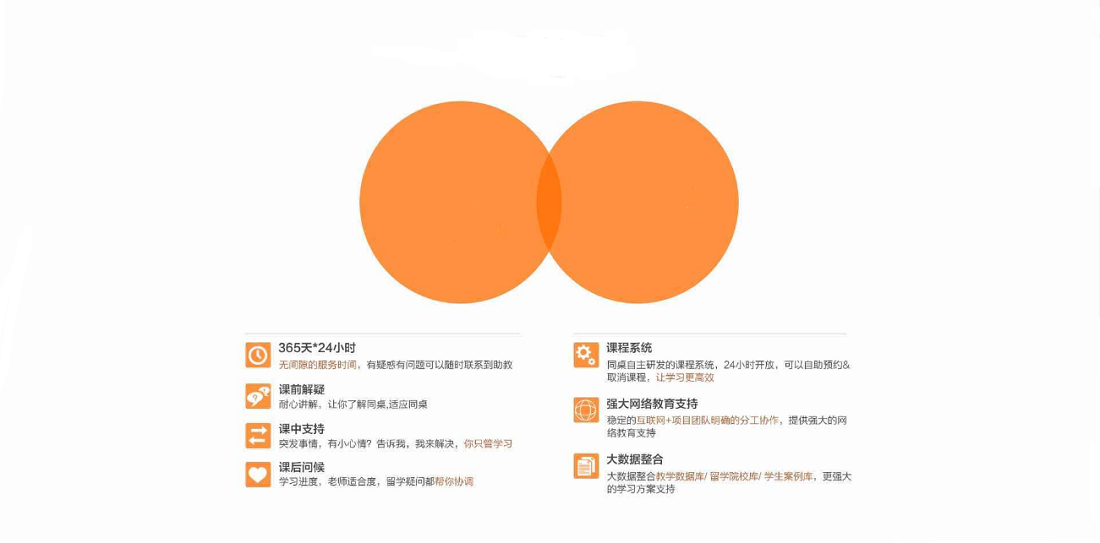
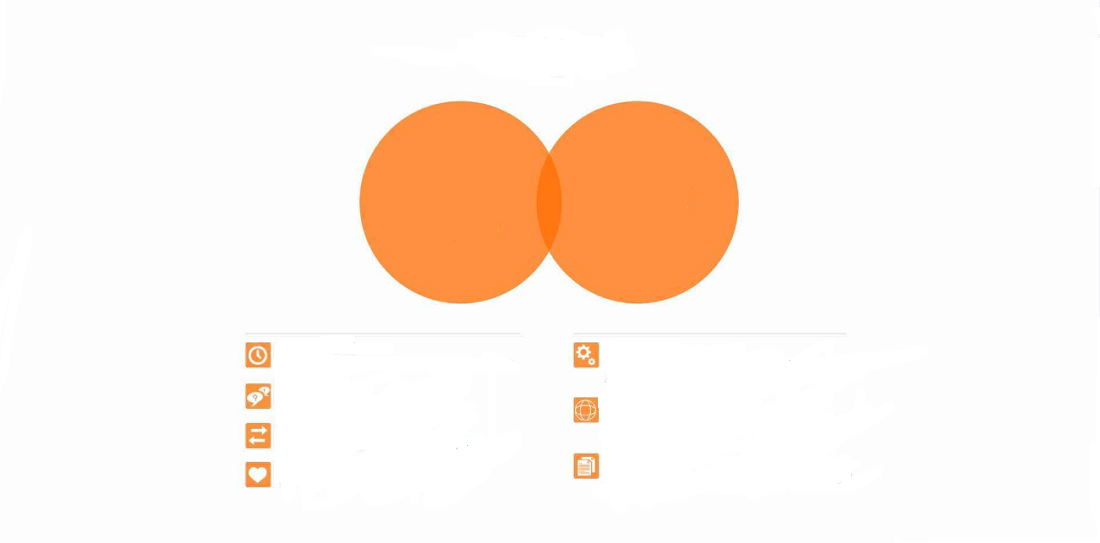
add

diff --git a/o/首页.html b/o/首页.html
@@ -86,15 +86,6 @@
     </div>
 
 
-
-    <!-- <div class="this-tre-paadr">
-        <div class="class-value-has">
-                课程有价值
-            <div class="border-lin-bot"></div>
-        </div>
-    </div> -->
-
-
     <div class="this-tre-paadr">
         <div class="class-value-has">
                 课程有价值
@@ -108,6 +99,33 @@
             <div class="rigg">
                 <div class="ttop">老师更专业</div>
                 <div class="ffoot">学习更高效</div>
+            </div>
+        </div>
+
+        <div class="sss-des-fot">
+            <div class="one">
+                <div class="top-one">
+                    <div class="big">雅思学习</div>
+                    <div class="small">根据学生的具体情况和目标分数，制定科学的课程计划，只考核打分与否不考量上课数</div>
+                </div>
+                <div class="top-two">
+                    <div class="big">留学申请</div>
+                    <div class="small">offer不在多，好的适合一个就够，我们追求这“一个”最优选择，为你分析和定制留学计划，助你拿到心愿offer</div>
+                </div>
+            </div>
+            <div class="two">
+                <div class="top-one">
+                    <div class="big">严格筛选培训候选人</div>
+                    <div class="small">根据学生的具体情况和目标分数，制定科学的课程计划，只考核打分与否不考量上课数</div>
+                </div>
+                <div class="top-two">
+                    <div class="big">60天全能培训</div>
+                    <div class="small">根据学生的具体情况和目标分数，制定科学的课程计划，只考核打分与否不考量上课数</div>
+                </div>
+                <div class="top-two">
+                    <div class="big">岗位季度考核</div>
+                    <div class="small">根据学生的具体情况和目标分数，制定科学的课程计划，只考核打分与否不考量上课数</div>
+                </div>
             </div>
         </div>
         
@@ -130,6 +148,46 @@
                 <div class="ffoot">稳定的教学支持</div>
             </div>
         </div>
+
+
+
+        <div class="sss-des-fott">
+            <div class="one">
+                <div class="top-one">
+                    <div class="big">365天*24小时</div>
+                    <div class="small">无间隙的服务时间</div>
+                </div>
+
+                <div class="top-two">
+                    <div class="big">课前解疑</div>
+                    <div class="small">耐心讲解，让你了解同桌</div>
+                </div>
+                <div class="top-two">
+                    <div class="big">课中支持</div>
+                    <div class="small">无间隙的服务时间</div>
+                </div>
+                <div class="top-two">
+                    <div class="big">课后问候</div>
+                    <div class="small">无间隙的服务时间</div>
+                </div>
+            </div>
+            <div class="two">
+                <div class="top-one">
+                    <div class="big">严格筛选培训候选人</div>
+                    <div class="small">根据学生的具体情况和目标分数，制定科学的课程计划，只考核打分与否不考量上课数</div>
+                </div>
+                <div class="top-two">
+                    <div class="big">60天全能培训</div>
+                    <div class="small">根据学生的具体情况和目标分数，制定科学的课程计划，只考核打分与否不考量上课数</div>
+                </div>
+                <div class="top-two">
+                    <div class="big">岗位季度考核</div>
+                    <div class="small">根据学生的具体情况和目标分数，制定科学的课程计划，只考核打分与否不考量上课数</div>
+                </div>
+            </div>
+        </div>
+
+
     </div>
 
 
@@ -155,7 +213,13 @@
             </div>
         </div>
 
-
+        <div class="wugulv-foot">
+            <div class="one">
+                我们对产品极其偏执，但不能保证每个人都受用，<span class="ye-color">为了规避学生的风险，</span>我们开放体验课
+            </div>
+            <div class="two"><span class="ye-color">产品经理全程监督服务，</span>24小时投诉渠道，不满意随时退款。</div>
+            <div class="three">我们<span class="ye-color">坚持淘宝交易，先享服务后付款，</span>最大限度保障学生的权益，同事督促我们的服务</div>
+        </div>
     </div>
 
 

diff --git a/o/css/style.css b/o/css/style.css
@@ -2894,3 +2894,139 @@ a:hover{
 	padding-left: 6px;
 	line-height: 29px;
 }
+.wugulv-foot{
+	width: 580px;
+	height: 65px;
+	margin-top: 25px;
+	margin-left: 273px;
+}
+
+.wugulv-foot .one{
+	display: inline-block;
+	vertical-align: top;
+	width: 159px;
+	font-size: 8px;
+	-webkit-transform-origin-x: 0;
+	padding-top: 3px;
+	padding-left: 3px;
+    -webkit-transform: scale(0.90);
+}
+.wugulv-foot .ye-color{
+	color: rgb(255,143,65);
+}
+
+.wugulv-foot .two{
+	display: inline-block;
+	vertical-align: top;
+	width: 146px;
+	font-size: 8px;
+	-webkit-transform-origin-x: 0;
+	padding-top: 3px;
+    -webkit-transform: scale(0.90);
+    margin-left: 55px;
+}
+
+.wugulv-foot .three{
+	display: inline-block;
+	vertical-align: top;
+	width: 146px;
+	font-size: 8px;
+	-webkit-transform-origin-x: 0;
+	padding-top: 3px;
+    -webkit-transform: scale(0.90);
+    margin-left: 55px;
+}
+.sss-des-fot{
+	width: 600px;
+	height: 175px;
+	margin-top:29px;
+	margin-left: 275px;
+}
+
+.sss-des-fot .one{
+	width: 266px;
+	display: inline-block;
+	vertical-align: top;
+	font-size: 8px;
+	-webkit-transform-origin-x: 0;
+    -webkit-transform: scale(0.90);
+}
+
+.sss-des-fot .one .big{
+	font-weight: bold;
+	font-size: 14px;
+}
+
+
+.sss-des-fot .one .top-two{
+	margin-top: 8px;
+}
+
+.sss-des-fot .two{
+	width: 270px;
+	display: inline-block;
+	vertical-align: top;
+	font-size: 8px;
+	-webkit-transform-origin-x: 0;
+    -webkit-transform: scale(0.90);
+    margin-left: 58px;
+}
+
+.sss-des-fot .two .big{
+	font-weight: bold;
+	font-size: 14px;
+}
+
+
+.sss-des-fot .two .top-two{
+	margin-top: 8px;
+}
+
+/**/
+
+
+.sss-des-fott{
+	width: 600px;
+	height: 175px;
+	margin-top:3px;
+	margin-left: 275px;
+}
+
+.sss-des-fott .one{
+	width: 266px;
+	display: inline-block;
+	vertical-align: top;
+	font-size: 8px;
+	-webkit-transform-origin-x: 0;
+    -webkit-transform: scale(0.90);
+}
+
+.sss-des-fott .one .big{
+	font-weight: bold;
+	font-size: 14px;
+}
+
+
+.sss-des-fott .one .top-two{
+	margin-top: 8px;
+}
+
+.sss-des-fott .two{
+	width: 270px;
+	display: inline-block;
+	vertical-align: top;
+	font-size: 8px;
+	-webkit-transform-origin-x: 0;
+    -webkit-transform: scale(0.90);
+    margin-left: 58px;
+}
+
+.sss-des-fott .two .big{
+	font-weight: bold;
+	font-size: 14px;
+}
+
+
+.sss-des-fott .two .top-two{
+	margin-top: 6px;
+}
